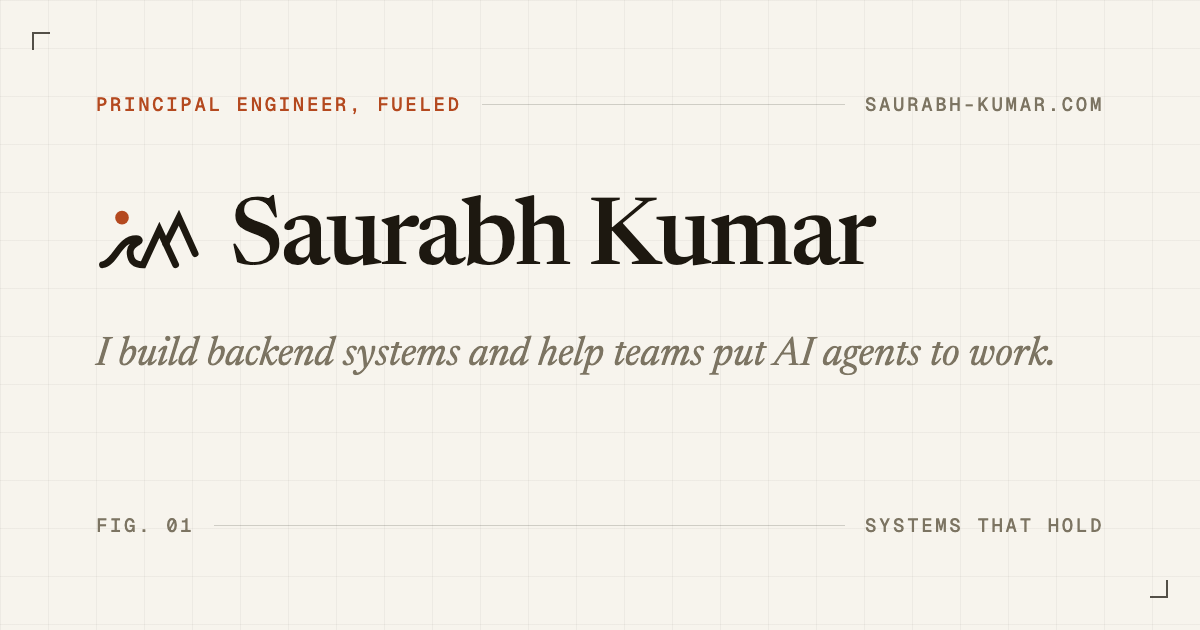
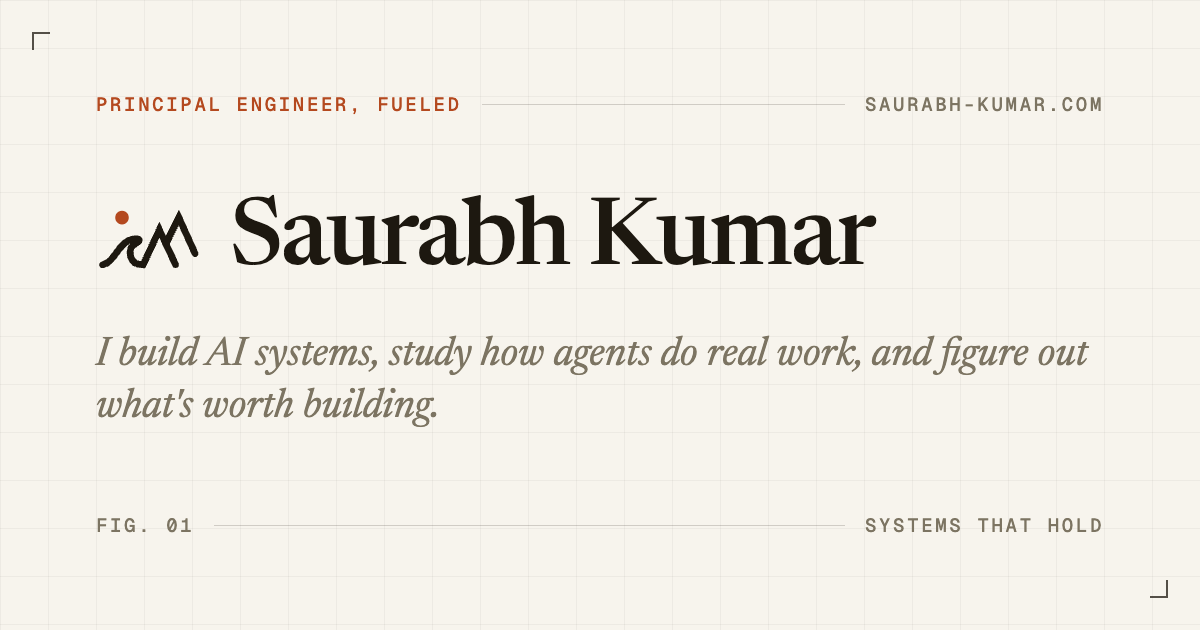
Site-wide social card: use the About tagline; add profile header sources
The card for pages without their own (home, about, projects) still said 'I build backend systems and help teams put AI agents to work.' It now matches the About page. Adds the sources for the X/Mastodon and LinkedIn profile headers.

Changed region(s): [[0.0617, 0.5127, 0.925, 0.6937]]

diff --git a/docs/brand/linkedin-banner.html b/docs/brand/linkedin-banner.html
@@ -1,0 +1,54 @@
+<!doctype html><html><head><meta charset="utf-8">
+<link href="https://fonts.googleapis.com/css2?family=Geist+Mono:wght@400;500&family=Newsreader:ital,opsz,wght@0,6..72,400..600;1,6..72,400..500&display=block" rel="stylesheet">
+<style>
+/* LinkedIn profile banner, 1584x396. Brand: docs/brand/BRAND.md.
+   LinkedIn's avatar covers roughly x 130-460 of the bottom 200 px, so type sits
+   top-right and the drawing carries the bottom edge. */
+*{box-sizing:border-box}html,body{margin:0}
+body{width:1584px;height:396px;background:#F7F4ED;color:#1D1810;position:relative;overflow:hidden;
+ background-image:linear-gradient(rgba(30,25,16,.04) 1px,transparent 1px),linear-gradient(90deg,rgba(30,25,16,.04) 1px,transparent 1px);background-size:50px 50px}
+canvas{position:absolute;inset:0}
+.tick{position:absolute;width:18px;height:18px;border-color:#1D1810;border-style:solid;opacity:.7}
+.tl{top:26px;left:26px;border-width:2px 0 0 2px}.br{bottom:26px;right:26px;border-width:0 2px 2px 0}
+.copy{position:absolute;left:620px;right:96px;top:58px}
+.row{display:flex;align-items:center;gap:18px;font:500 17px 'Geist Mono',monospace;letter-spacing:.14em;text-transform:uppercase;color:#7C7462}
+.row i{flex:1;height:1px;background:rgba(30,25,16,.18)}
+.row .acc{color:#B4491F}
+h1{margin:20px 0 0;font:500 44px/1.12 'Newsreader',serif;letter-spacing:-.018em;text-wrap:balance}
+body.quiet .copy{display:none}
+</style></head><body>
+<canvas id="c" width="3168" height="792" style="width:1584px;height:396px"></canvas>
+<span class="tick tl"></span><span class="tick br"></span>
+<div class="copy">
+  <div class="row"><span class="acc">Principal Engineer, Fueled</span><i></i><span>saurabh-kumar.com</span></div>
+  <h1>I build AI systems, study how agents do real work, and figure out what's worth building.</h1>
+</div>
+<script>
+if (location.hash === '#quiet') document.body.classList.add('quiet');
+const c = document.getElementById('c'), x = c.getContext('2d'); x.scale(2, 2);
+// Deterministic value noise.
+const h = (i, j) => { const s = Math.sin(i * 127.1 + j * 311.7) * 43758.5453; return s - Math.floor(s); };
+const n = (u, v) => { const i = Math.floor(u), j = Math.floor(v), f = u - i, g = v - j, a = f*f*(3-2*f), b = g*g*(3-2*g);
+  return ((h(i,j)*(1-a)+h(i+1,j)*a)*(1-b)+(h(i,j+1)*(1-a)+h(i+1,j+1)*a)*b)*2-1; };
+const ease = t => t*t*(3-2*t);
+const W = 1584, LINES = 7;
+// Two hills on the right, as in the mark: a small front hill and a taller
+// back hill. Back lines carry the full height; front lines relax into swells.
+const bump = (px, c, w, ht) => ht * Math.pow(Math.max(0, 1 - Math.abs(px - c) / w), 1.35);
+for (let k = 0; k < LINES; k++) {
+  const base = 286 + k * 15, front = k === LINES - 1, lift = Math.pow(1 - k / LINES, 1.6);
+  x.beginPath();
+  for (let px = -10; px <= W + 10; px += 2) {
+    const t = ease(Math.min(1, Math.max(0, (px - 560) / 560)));   // 0: sea (left), 1: hills (right)
+    const swell = Math.sin(px / 44 + k * 0.9) * 3.5 + n(px / 130, k * 3.1) * 5;
+    const hills = bump(px, 1190, 210, 50) + bump(px, 1430, 250, 78) + n(px / 38, k * 1.3) * 3.5;
+    const y = base + swell * (1 - t) - hills * lift;
+    px < -9 ? x.moveTo(px, y) : x.lineTo(px, y);
+  }
+  x.strokeStyle = front ? 'rgba(29,24,16,.55)' : `rgba(124,116,98,${0.26 + k * 0.045})`;
+  x.lineWidth = front ? 1.6 : 1.15;
+  x.stroke();
+}
+// Ember sun over the sea.
+x.beginPath(); x.arc(520, 226, 8, 0, Math.PI * 2); x.fillStyle = '#B4491F'; x.fill();
+</script></body></html>

diff --git a/docs/brand/x-header.html b/docs/brand/x-header.html
@@ -1,0 +1,54 @@
+<!doctype html><html><head><meta charset="utf-8">
+<link href="https://fonts.googleapis.com/css2?family=Geist+Mono:wght@400;500&family=Newsreader:ital,opsz,wght@0,6..72,400..600;1,6..72,400..500&display=block" rel="stylesheet">
+<style>
+/* X (Twitter) profile header, 1500x500. Brand: docs/brand/BRAND.md.
+   X's avatar covers roughly the bottom-left 380x170 px, so type sits
+   top-right and the drawing carries the bottom edge. */
+*{box-sizing:border-box}html,body{margin:0}
+body{width:1500px;height:500px;background:#F7F4ED;color:#1D1810;position:relative;overflow:hidden;
+ background-image:linear-gradient(rgba(30,25,16,.04) 1px,transparent 1px),linear-gradient(90deg,rgba(30,25,16,.04) 1px,transparent 1px);background-size:50px 50px}
+canvas{position:absolute;inset:0}
+.tick{position:absolute;width:18px;height:18px;border-color:#1D1810;border-style:solid;opacity:.7}
+.tl{top:30px;left:30px;border-width:2px 0 0 2px}.br{bottom:30px;right:30px;border-width:0 2px 2px 0}
+.copy{position:absolute;left:640px;right:96px;top:84px}
+.row{display:flex;align-items:center;gap:18px;font:500 17px 'Geist Mono',monospace;letter-spacing:.14em;text-transform:uppercase;color:#7C7462}
+.row i{flex:1;height:1px;background:rgba(30,25,16,.18)}
+.row .acc{color:#B4491F}
+h1{margin:26px 0 0;font:500 50px/1.12 'Newsreader',serif;letter-spacing:-.018em;text-wrap:balance}
+body.quiet .copy{display:none}
+</style></head><body>
+<canvas id="c" width="3000" height="1000" style="width:1500px;height:500px"></canvas>
+<span class="tick tl"></span><span class="tick br"></span>
+<div class="copy">
+  <div class="row"><span class="acc">Principal Engineer, Fueled</span><i></i><span>saurabh-kumar.com</span></div>
+  <h1>I build AI systems, study how agents do real work, and figure out what's worth building.</h1>
+</div>
+<script>
+if (location.hash === '#quiet') document.body.classList.add('quiet');
+const c = document.getElementById('c'), x = c.getContext('2d'); x.scale(2, 2);
+// Deterministic value noise.
+const h = (i, j) => { const s = Math.sin(i * 127.1 + j * 311.7) * 43758.5453; return s - Math.floor(s); };
+const n = (u, v) => { const i = Math.floor(u), j = Math.floor(v), f = u - i, g = v - j, a = f*f*(3-2*f), b = g*g*(3-2*g);
+  return ((h(i,j)*(1-a)+h(i+1,j)*a)*(1-b)+(h(i,j+1)*(1-a)+h(i+1,j+1)*a)*b)*2-1; };
+const ease = t => t*t*(3-2*t);
+const W = 1500, LINES = 8;
+// Two hills on the right, as in the mark: a small front hill and a taller
+// back hill. Back lines carry the full height; front lines relax into swells.
+const bump = (px, c, w, ht) => ht * Math.pow(Math.max(0, 1 - Math.abs(px - c) / w), 1.35);
+for (let k = 0; k < LINES; k++) {
+  const base = 372 + k * 16, front = k === LINES - 1, lift = Math.pow(1 - k / LINES, 1.6);
+  x.beginPath();
+  for (let px = -10; px <= W + 10; px += 2) {
+    const t = ease(Math.min(1, Math.max(0, (px - 520) / 520)));   // 0: sea (left), 1: hills (right)
+    const swell = Math.sin(px / 44 + k * 0.9) * 3.5 + n(px / 130, k * 3.1) * 5;
+    const hills = bump(px, 1120, 210, 62) + bump(px, 1350, 250, 98) + n(px / 38, k * 1.3) * 3.5;
+    const y = base + swell * (1 - t) - hills * lift;
+    px < -9 ? x.moveTo(px, y) : x.lineTo(px, y);
+  }
+  x.strokeStyle = front ? 'rgba(29,24,16,.55)' : `rgba(124,116,98,${0.26 + k * 0.045})`;
+  x.lineWidth = front ? 1.6 : 1.15;
+  x.stroke();
+}
+// Ember sun over the sea.
+x.beginPath(); x.arc(470, 300, 9, 0, Math.PI * 2); x.fillStyle = '#B4491F'; x.fill();
+</script></body></html>

diff --git a/docs/brand/og-card.html b/docs/brand/og-card.html
@@ -16,6 +16,6 @@ body{width:1200px;height:630px;background:#F7F4ED;color:#1D1810;position:relativ
 <span class="tick tl"></span><span class="tick br"></span>
 <div class="row top"><span class="acc">Principal Engineer, Fueled</span><i></i><span>saurabh-kumar.com</span></div>
 <div class="lock"><svg width="104" height="104" viewBox="0 0 32 32" fill="none"><g stroke="#1D1810" stroke-width="2.1" stroke-linecap="round" stroke-linejoin="miter"><path d="M2 23c4-.6 5-8 10.4-8C13.3 15 13.6 15.6 12.9 16 11.8 16.7 10.5 17.4 10.5 19c0 2.4 1 4 4 4L19.5 12.26 24.5 23"/><path d="M21.5 16.55 25.5 8.5 30.5 19.6"/></g><circle cx="8" cy="8.5" r="2.1" fill="#B4491F"/></svg><h1>Saurabh Kumar</h1></div>
-<div class="tag">I build backend systems and help teams put AI agents to work.</div>
+<div class="tag">I build AI systems, study how agents do real work, and figure out what's worth building.</div>
 <div class="row bot"><span>Fig. 01</span><i></i><span>Systems that hold</span></div>
 </body></html>

diff --git a/docs/brand/BRAND.md b/docs/brand/BRAND.md
@@ -123,6 +123,7 @@ Plain, specific, first-person. The judgment is the product; state it.
 | Social / OG card, site-wide (1200×630) | `static/images/og.png` (source: `docs/brand/og-card.html`, screenshot at 1200×630) |
 | Social card per post and TIL note | Drawn at build time by `layouts/partials/og/card.html` on `assets/og/background.png` (source: `docs/brand/og-background.html`, screenshot at 1200×630), with fonts in `assets/fonts/` |
 | Live design system | `layouts/partials/style.html` (tokens at top) |
+| Profile headers | X and Mastodon 1500×500 from `docs/brand/x-header.html`; LinkedIn 1584×396 from `docs/brand/linkedin-banner.html`. Screenshot at those sizes. The avatar covers the bottom left, so type sits top right. |
 | TIL | Part of this site since Oct 2026: `layouts/til/`, notes in `content/til/` → saurabh-kumar.com/til/ |
 
 Regenerate icons: `rsvg-convert -w <size> -h <size> static/images/favicon.svg > out.png`;
